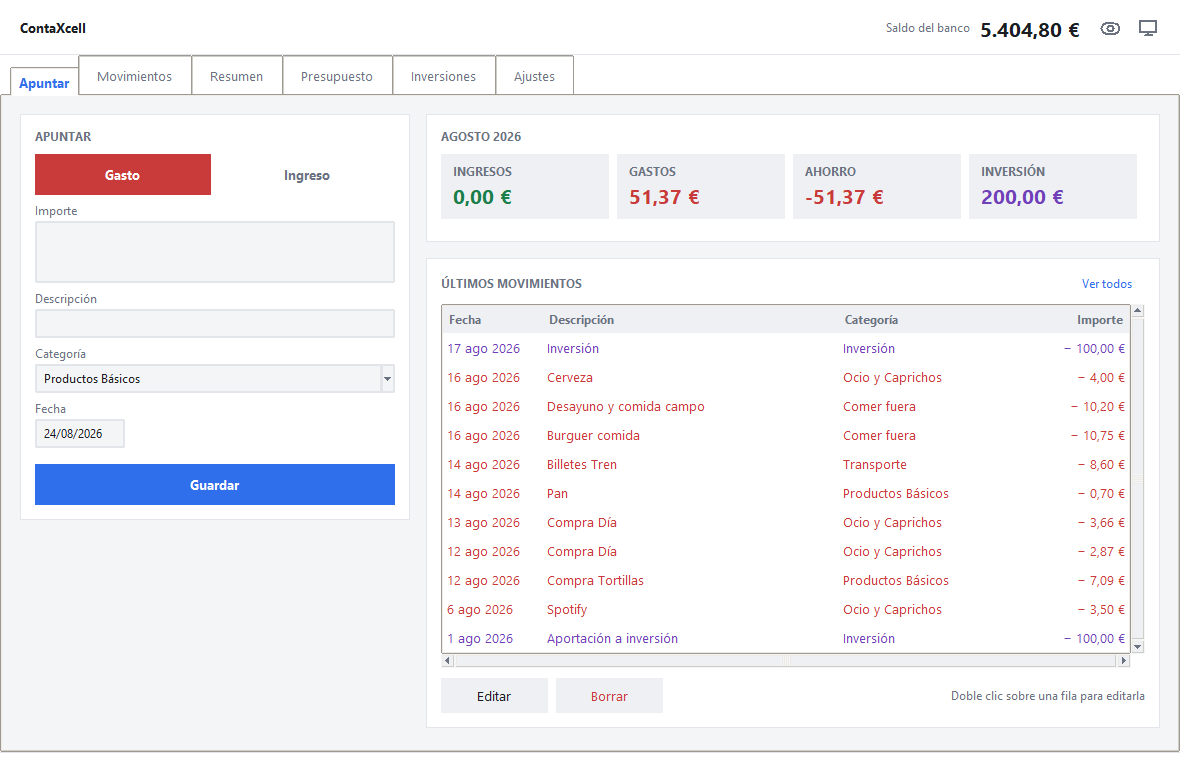
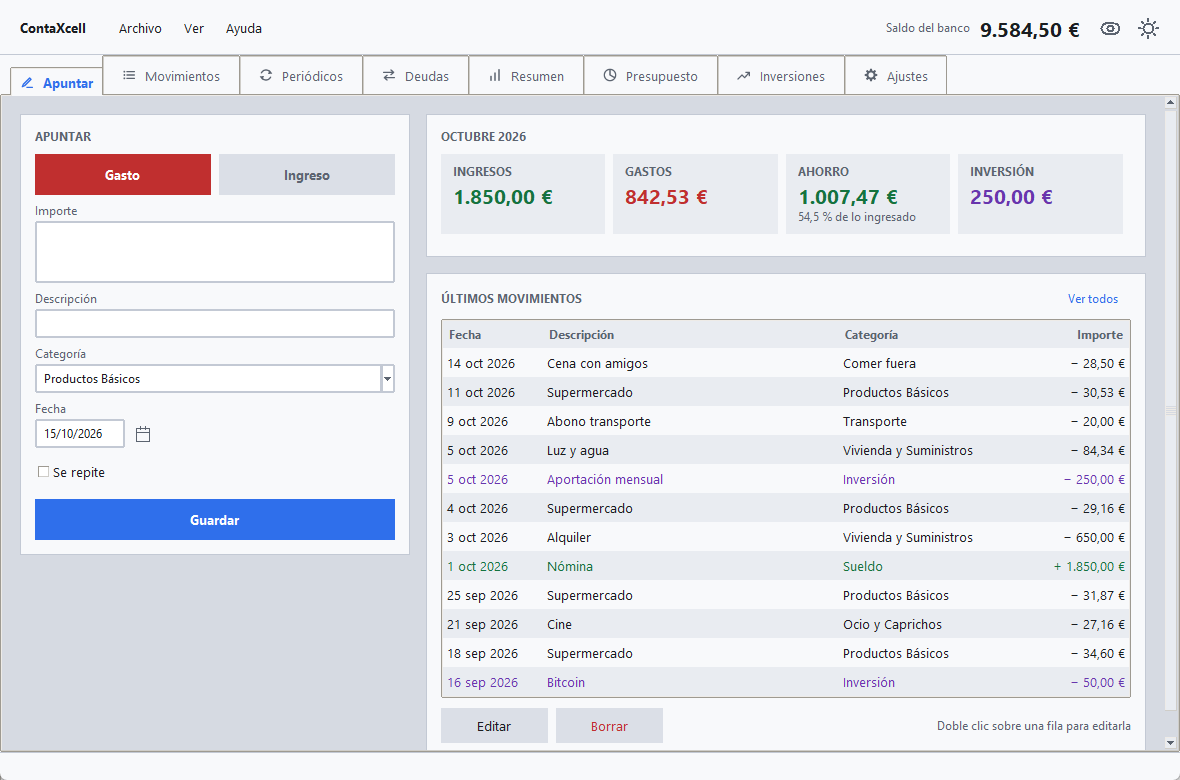
README al día: capturas nuevas, ocho pestañas, menús, actualizaciones y la app del móvil

diff --git a/README.md b/README.md
@@ -1,11 +1,8 @@
 # ContaXcell
 
-> **Android:** la nueva aplicación nativa está en [`android/`](android/README.md).
-> Conserva el libro, los cálculos, la sincronización y la importación/exportación
-> de la versión de escritorio con una entrada adaptada al móvil.
-
-Contabilidad personal para Windows. Los datos viven en tu ordenador, en un
-archivo tuyo, sin cuentas de Google ni conexión de por medio.
+Contabilidad personal para Windows y Android. Los datos viven en tu ordenador,
+en un archivo tuyo, y un servidor propio guarda una copia para llevarla de un
+aparato a otro. Sin cuentas de Google de por medio.
 
 Sustituye a la hoja de cálculo: hace lo mismo que las cuatro hojas de la
 plantilla original (Movimientos, Resumen, Presupuesto e Inversiones), pero sin
@@ -50,12 +47,19 @@ Python, y el resto es de la biblioteca estándar.
 | **Inversiones** | La cartera: qué has aportado, qué vale hoy y qué ha hecho el mercado. |
 | **Ajustes** | Saldo inicial, categorías, tema, tu cuenta y las copias de tus datos. |
 
-**Atajos:** `Ctrl+1`…`Ctrl+8` cambian de pestaña, `Ctrl+H` tapa los importes.
+**Atajos:** `Ctrl+1`…`Ctrl+8` cambian de pestaña, `Ctrl+H` tapa los importes y
+`F1` abre la guía de uso por el apartado de la pestaña en la que estás.
+
+Arriba hay tres menús: **Archivo** (guardar o restaurar una copia, abrir la
+carpeta de los datos), **Ver** (tapar importes, tema) y **Ayuda** (la guía, las
+condiciones de uso, el historial de versiones y buscar actualizaciones).
 
 El **botón del ojo** de la barra de arriba tapa de golpe todos los importes de
 la aplicación, por si apuntas algo con gente delante. Se recuerda al cerrar.
 
 ![El resumen del año](capturas/resumen.png)
+
+![El presupuesto del mes](capturas/presupuesto.png)
 
 ## Las dos reglas que gobiernan las cuentas
 
@@ -109,6 +113,8 @@ En **Apuntar** hay una casilla «se repite» que crea la regla a partir del
 apunte que acabas de escribir: ese movimiento es ya el primer pago, así que no
 se duplica ni se rellena nada anterior.
 
+![Los periódicos](capturas/periodicos.png)
+
 ## Las deudas
 
 Que alguien te deba veinte euros no es tenerlos. Por eso las deudas son una
@@ -118,6 +124,8 @@ de qué, y se va marcando lo devuelto a trozos.
 Cobrar o pagar una deuda **ofrece** apuntar un movimiento, pero no lo fabrica
 sola: si pagaste tú la cena entera, ese gasto ya salió de tu cuenta y lo que te
 devuelven solo lo compensa. Apuntarlo también lo contaría dos veces.
+
+![Las deudas](capturas/deudas.png)
 
 ## Traer el extracto del banco
 
@@ -185,13 +193,21 @@ que es justo lo que hace el software malicioso, y por eso los antivirus lo
 marcan mucho más a menudo. La carpeta arranca antes y da menos disgustos al
 mandársela a alguien.
 
+Para repartirlo **no hace falta mandar nada**: `python publicar.py "novedades"`
+lo fabrica, lo firma y lo sube al servidor, y a cada uno le aparece el aviso de
+versión nueva al abrir el programa. Solo se instala lo que va firmado con la
+llave de Ricardo, así que nadie puede colar un programa falso por ese camino.
+Los pasos completos, en `PUBLICAR.txt`.
+
 Ese aviso de Windows (SmartScreen) solo desaparece comprando un certificado de
 firma de código, que cuesta unos cientos de euros al año. Para repartir entre
 amigos no compensa.
 
 Cada persona lleva su propia contabilidad en su ordenador. Nadie ve la de
-nadie. Para dar una versión nueva basta con sustituir la carpeta: los datos
-están en otro sitio y no se tocan.
+nadie. Al actualizar, los datos no se tocan: están en otra carpeta.
+
+**Solo funciona en Windows.** Un `.exe` no abre en un Mac; allí habría que
+arrancarlo desde el código (con el Python de python.org, que trae Tkinter).
 
 ## La cuenta y la sincronización
 
@@ -200,11 +216,13 @@ levanta con Docker y guarda los libros en PostgreSQL). Al abrirla por primera
 vez pide crear una cuenta o entrar; a partir de ahí abre directa, haya internet
 o no.
 
-El servidor **ya está desplegado** en una instancia EC2 de Amazon, encendida
-todo el día y por HTTPS, y **su dirección viene puesta de fábrica**: quien
+El servidor **ya está desplegado** en una instancia EC2 de Amazon de la cuenta
+de Ricardo, encendida todo el día y por HTTPS, y **su dirección viene puesta de fábrica**: quien
 recibe el programa solo tiene que poner usuario y contraseña. Si el servidor
 pide **código de invitación**, aparece un campo más al crear la cuenta; sin ese
-código, nadie que dé con la dirección puede registrarse. Para apuntar a otro
+código, nadie que dé con la dirección puede registrarse. Al crear la cuenta se
+aceptan las condiciones de uso (`server/textos/condiciones.md`), que luego se
+pueden releer en **Ayuda → Condiciones de uso**. Para apuntar a otro
 servidor (uno de pruebas en tu propio ordenador, por ejemplo) hay un enlace
 **Cambiar el servidor…** en la ventana de entrada.
 
@@ -265,6 +283,7 @@ ContaXcell/
 ├── escritorio/                la aplicación
 │   ├── ejecutar.py            arranque (y punto de entrada de PyInstaller)
 │   ├── empaquetar.py          crea el .exe y el .zip
+│   ├── publicar.py            lo fabrica, lo firma y lo sube al servidor
 │   ├── contaxcell/
 │   │   ├── modelo.py          qué es un movimiento, una categoría, un activo…
 │   │   ├── calculos.py        toda la aritmética. No sabe que existe una ventana
@@ -277,6 +296,10 @@ ContaXcell/
 │   │   ├── widgets.py         tarjetas, tablas, barras, gráficos
 │   │   ├── dialogos.py        formularios y confirmaciones
 │   │   ├── ventana.py         la ventana principal y el estado compartido
+│   │   ├── guia.py            la guía de uso (F1), un apartado por pestaña
+│   │   ├── iconos.py          los iconos de las pestañas, dibujados en Python
+│   │   ├── qr.py              el QR para bajar la app del móvil, sin librerías
+│   │   ├── actualizar.py      se actualiza solo, y solo con lo firmado
 │   │   └── vistas/            una pestaña por archivo
 │   ├── pruebas/
 │   └── recursos/
@@ -285,6 +308,7 @@ ContaXcell/
 │   ├── contaserver/           la API: cuentas, fichas de sesión, libros y precios
 │   ├── docker-compose.yml     la API, su PostgreSQL y el Caddy del HTTPS
 │   └── LEEME.md               cómo levantarlo y desplegarlo
+├── android/                   la app del móvil (Kotlin + Compose)
 ├── app/                       versión anterior para el móvil (Google Apps Script)
 └── capturas/
 ```
@@ -303,12 +327,12 @@ quedado anticuadas. Así nunca se enseña algo que en realidad no se ha grabado.
 
 ```
 cd escritorio
-python -m unittest discover -s pruebas    # 350 pruebas, unos 8 segundos
+python -m unittest discover -s pruebas    # 458 pruebas, unos 5 segundos
 python pruebas/humo.py                    # abre la ventana y pasea las pestañas
 python pruebas/ver.py --pestana resumen   # abre con datos de prueba
 
 cd server
-python -m unittest discover -s pruebas    # 75 pruebas, con SQLite y sin red
+python -m unittest discover -s pruebas    # 120 pruebas, con SQLite y sin red
 ```
 
 `ver.py` usa una carpeta de datos aparte, así que nunca toca la contabilidad de
@@ -338,7 +362,13 @@ rápida de revisar cómo queda una pantalla.
 - **El presupuesto es una cifra por categoría** y vale para todos los meses, tal
   como estaba en la plantilla. Lo que cambia cada mes es el gasto real.
 
-## La versión del móvil
+## La app del móvil
+
+En [`android/`](android/README.md) está la aplicación nativa para Android. Lee y
+sube el mismo `datos.json` que el escritorio, con las mismas reglas, así que lo
+apuntado en el móvil aparece en el ordenador y al revés. Se compila sola en
+GitHub y, como el programa del ordenador, se actualiza sola desde el servidor.
+Para instalarla basta con escanear el QR que sale en **Ajustes**.
 
 En `app/` está la versión anterior: una aplicación web en Google Apps Script
 que escribía directamente en la hoja de Google desde el navegador del móvil.
